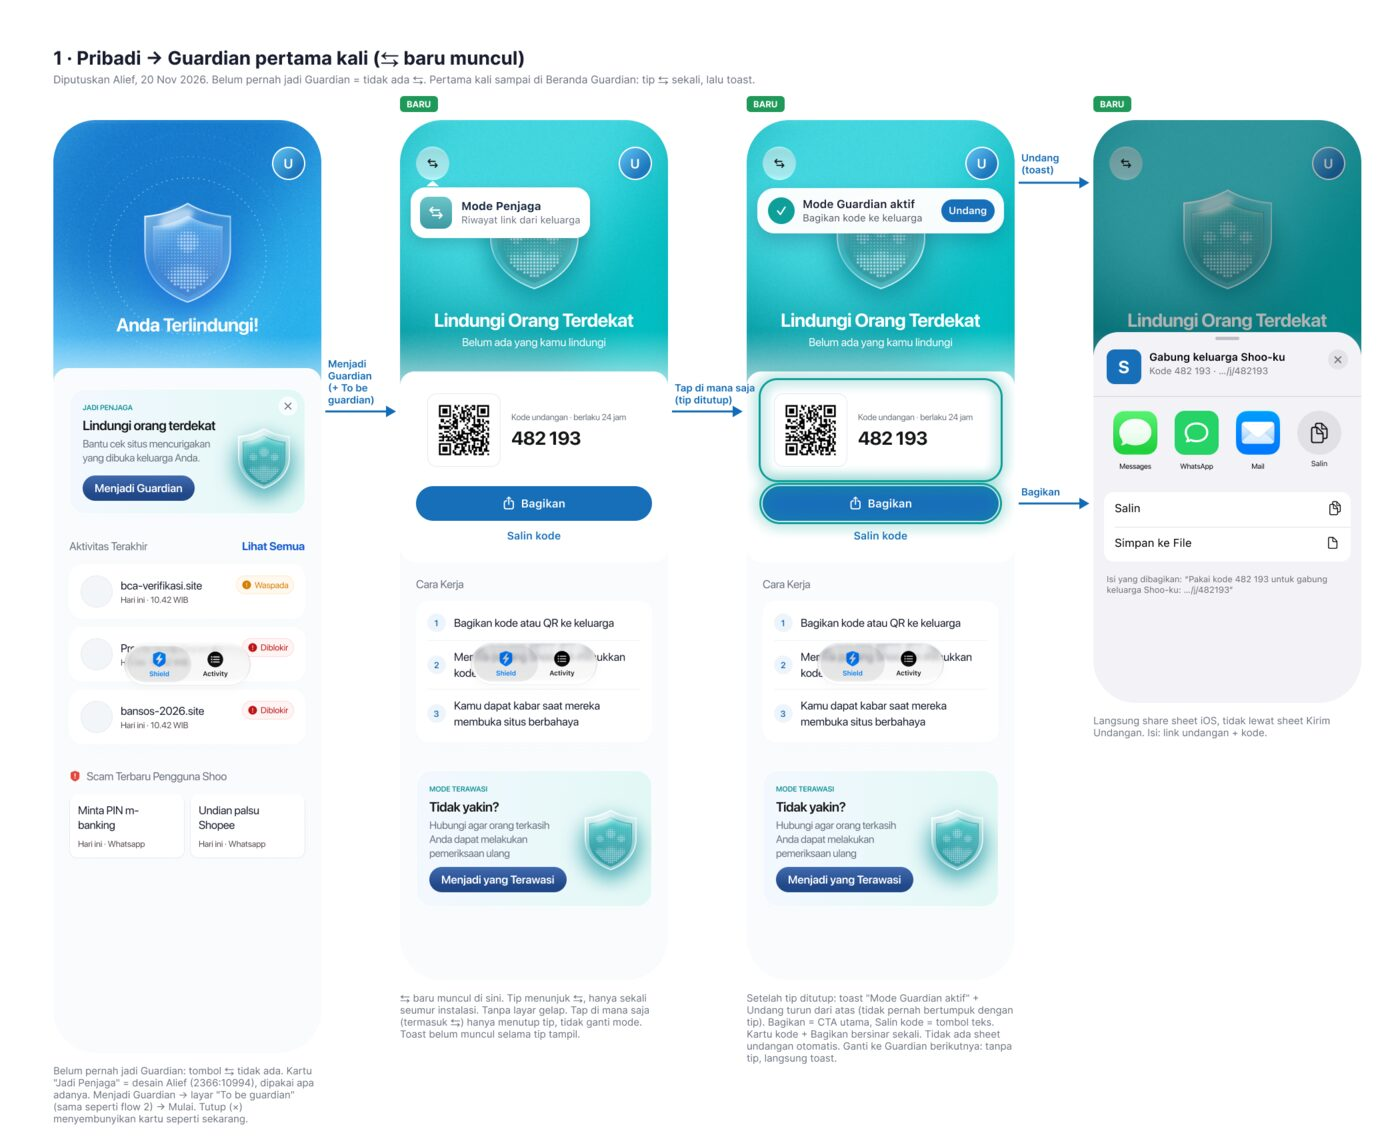
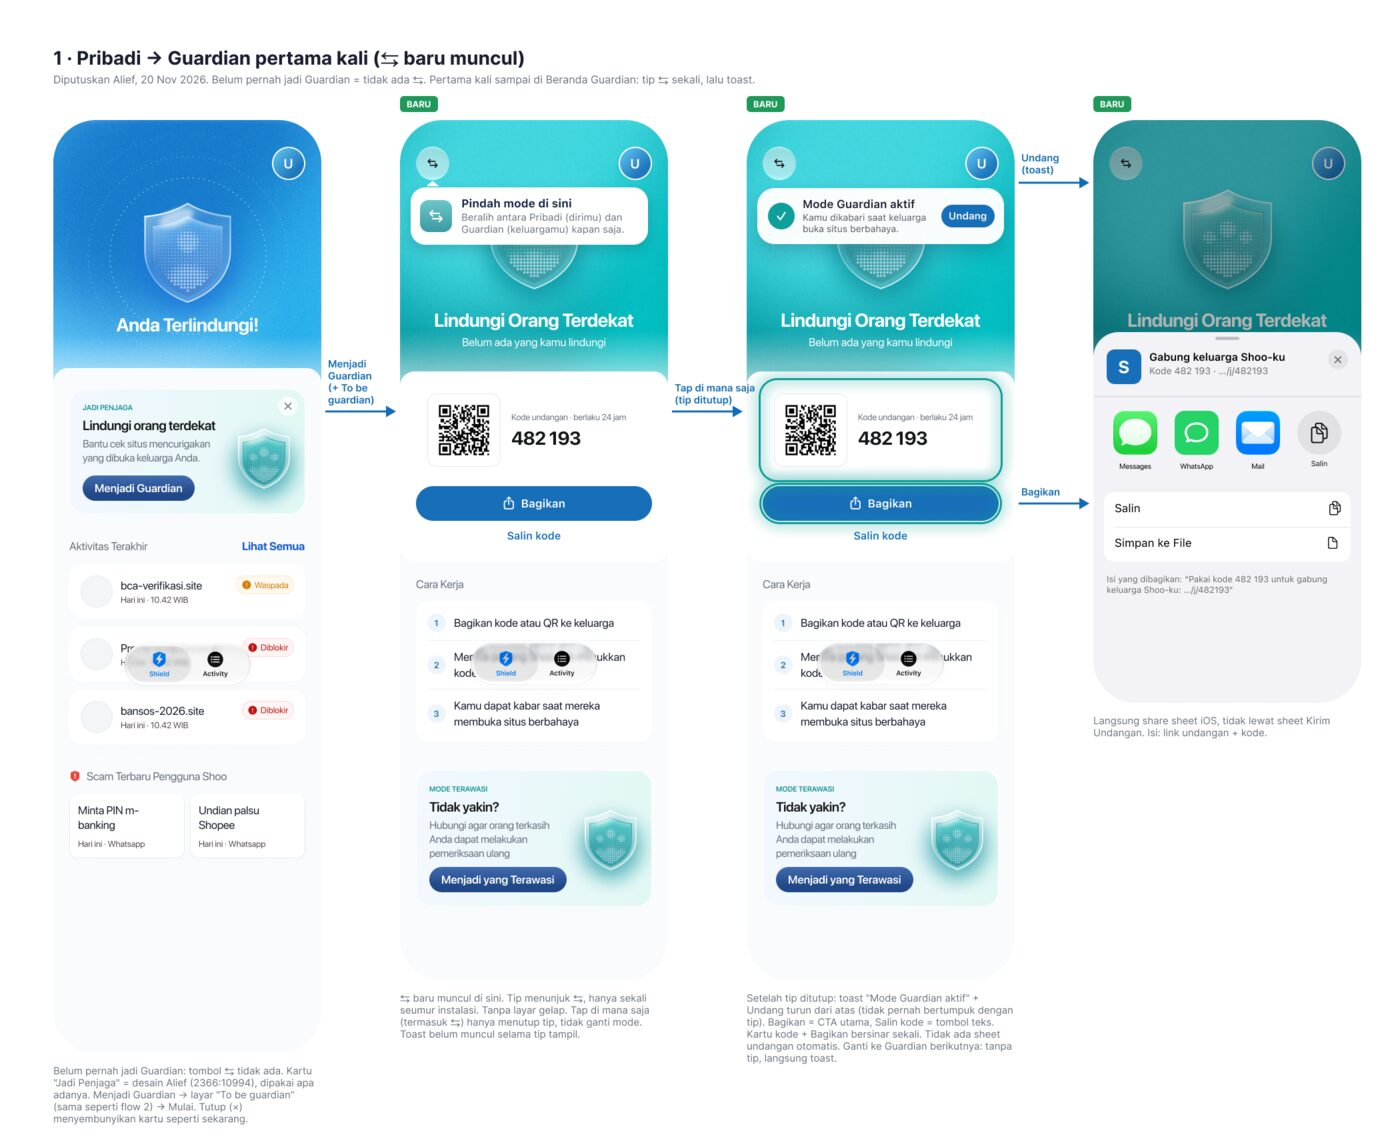
docs(alief): clearer copy for the ⇆ tip and the Guardian toast

Changed region(s): [[0.2764, 0.1526, 0.4607, 0.2136], [0.5221, 0.1526, 0.7371, 0.2136]]

diff --git a/plan/alief/proposal/pairing-feedback.md b/plan/alief/proposal/pairing-feedback.md
@@ -93,7 +93,7 @@ Right after the tap:
 
 | Action | Toast (ID / EN) | Highlight |
 |---|---|---|
-| Intro "Mulai" / "Ganti ke Guardian" (#1–#3, #8) | "Mode Guardian aktif · Bagikan kode ini ke keluarga" / "Guardian mode on · Share this code with your family", with an **"Undang"** button (see the decision below) | the code card + "Bagikan" |
+| Intro "Mulai" / "Ganti ke Guardian" (#1–#3, #8) | "Mode Guardian aktif · Kamu dikabari saat keluarga buka situs berbahaya." / "Guardian mode on · You'll be told when your family opens a dangerous site.", with an **"Undang"** button (see the decision below) | the code card + "Bagikan" |
 | "Ganti ke Pribadi" (#2, #8) | "Mode Pribadi aktif · Perlindunganmu tetap menyala" / "Personal mode on · Your protection stays on" | none |
 | Member joins while the invite sheet is open (#4, #5) | "Ibu sudah terhubung · Kamu sekarang ikut menjaga Ibu" / "Ibu is connected · You now help protect Ibu" | Ibu's avatar + "Baru terhubung" |
 | Pribadi inviter, member joins (#7) | same, and Home switches to Family (see decision 1) | the member |
@@ -149,7 +149,7 @@ Rough mock, drawn over the real screenshots. ① is the new toast, ② the one-t
 | <img src="img/pairing-feedback/mock-1-guardian-member-joined.jpg" width="220"> | <img src="img/pairing-feedback/mock-2-became-guardian.jpg" width="220"> | <img src="img/pairing-feedback/mock-3-protected-connected.jpg" width="220"> |
 | Sheet closes by itself, Home shows Ibu with a green ring + "Baru terhubung" chip, toast "Ibu sudah terhubung", success haptic. | Profile / Mode akun closes, Home shows the teal Family Home, the code card glows once, toast "Mode Guardian aktif". | Home settles, the pill pulses once, toast "Terhubung dengan Ayah". |
 
-Toast details for whoever builds it: white card, 12 pt below the top bar, so it never covers ⇆ or the avatar. One row, vertically centred: the check icon in the mode colour on the left (green for a connection, teal for Guardian), then the title with its line under it, then the optional button ("Undang") on the right. It slides down with the app's `StateMotion` and fades out after 3 s. VoiceOver reads the title and line once.
+Toast details for whoever builds it: white card, 12 pt below the top bar, so it never covers ⇆ or the avatar. One row, vertically centred: the check icon in the mode colour on the left (green for a connection, teal for Guardian), then the title (17 pt semibold) with its line under it (14 pt, at most 2 lines), then the optional button ("Undang") on the right. The line says what the change means for the user, not what to tap: the button already says that. It slides down with the app's `StateMotion` and fades out after 3 s. VoiceOver reads the title and line once.
 
 ### Decided (Alief, 20 Nov 2026): no automatic invite sheet after "Ganti ke Guardian"
 
@@ -205,7 +205,7 @@ Alief: *"pertama kali, tombol ⇆ gk ada, itu baru muncul setelah dia udah jadi 
 
 1. **No ⇆ on Pribadi Home until the user has been Guardian once.** Someone who never was Guardian has nothing to switch to, so the icon only confused (row #8). The avatar stays top right; it does not move left into the empty spot. `HomeTopBar` already hides ⇆ when `onSwitch` is `nil` (`Features/Shield/HomeChrome.swift:338-339`, used that way for protected/Home), so Home passes `nil` while the flag below is false.
 2. **Pribadi Home gets Alief's card** "Jadi Penjaga · Lindungi orang terdekat" (Figma `2366:10994`, in the HOME frame `1382:10567`), under "Anda Terlindungi!". It is used as designed. "Menjadi Guardian" calls `env.requestFamilyMode()`, the same as Profile's card: the first time, "To be guardian" shows, and "Mulai" lands on Guardian Home (`App/AppEnvironment.swift:505-519`). The card shows only while the user has never been Guardian; after that, ⇆ takes its place. **Recommendation, not yet confirmed:** "Tutup" (×) uses the same `guardianCardDismissed` flag as Profile's card, so one "not now" hides both.
-3. **On the first arrival at Guardian Home, a tip points at the ⇆ that just appeared.** It follows Alief's reference: a white rounded card right under ⇆ with a small pointer, a teal tile with a white ⇆, a bold "Mode Penjaga" and a grey "Riwayat link dari keluarga". The English source strings are "Guardian mode" / "Link history from your family" (2 strings, EN + ID).
+3. **On the first arrival at Guardian Home, a tip points at the ⇆ that just appeared.** It follows the look of Alief's reference: a white rounded card right under ⇆ with a small pointer, a teal tile with a white ⇆, a bold title and a grey line. The copy says what ⇆ does, not just the mode name: "Pindah mode di sini" / "Beralih antara Pribadi (dirimu) dan Guardian (keluargamu) kapan saja." (EN source: "Switch modes here" / "Move between Personal (just you) and Guardian (your family) any time."). Alief's first wording ("Mode Penjaga" / "Riwayat link dari keluarga") named the mode but not the button's job, and it used "Penjaga" where the rest of the app says "Guardian".
    - **How it closes:** a tap anywhere on the screen, ⇆ included. That tap only closes the tip. It does not switch the mode or press what is underneath, the same as an iOS popover tip, so a tap aimed at the tip never flips the user straight back to Pribadi. There is no dim background and no timer, so the tip stays until it is seen. VoiceOver reads it once when it appears, and the escape gesture also closes it.
    - **Shown once:** a new `AppSettings` Bool `guardianSwitchTipSeen` (key `settings.guardianSwitchTipSeen`, UserDefaults on the device), set to `true` when the tip closes.
      - Installs that already have `guardianIntroSeen == true` start as seen, because they already know ⇆.
@@ -215,7 +215,7 @@ Alief: *"pertama kali, tombol ⇆ gk ada, itu baru muncul setelah dia udah jadi 
    - **Why not TipKit:** TipKit (iOS 17+) does popover tips and remembers "seen" itself. But it draws the system popover, not Alief's white card with the teal tile, and it keeps its own datastore that `reset()` and the demo restore would also have to clear. One small overlay and one flag match how the app already stores its first-time flags.
 4. **Order with the toast: the tip first, the toast after the tip closes.** Both sit at the top, so they never show together. While the tip is up, the "Mode Guardian aktif" toast (with "Undang") and the one-time glow on the code card and "Bagikan" wait. A tap closes the tip, and then they run as in Option A. Why this order:
    - The tip waits for a tap, while the toast leaves by itself after 3 s. With the toast first, the tip would appear about 3 s later. By then the user may be reading the code card or may have tapped "Undang", and a tip that pops up late feels like an interruption.
-   - Nothing is silent while the tip is up: the teal Home and "Mode Penjaga" already show that the mode changed.
+   - Nothing is silent while the tip is up: the teal Home and the tip already show that the mode changed.
    - Rejected: showing both at once with the toast moved lower, because the two cards compete and the toast covers the code card. Also rejected: no toast the first time, because it loses the "Undang" shortcut, which is the next step.
    - Every later switch (⇆, Mode akun, Profile) has no tip, and the toast shows right away.
 5. **Unchanged:** "Bagikan" is the main button, "Undang" and "Bagikan" open the iOS share sheet, and no invite sheet opens by itself.
